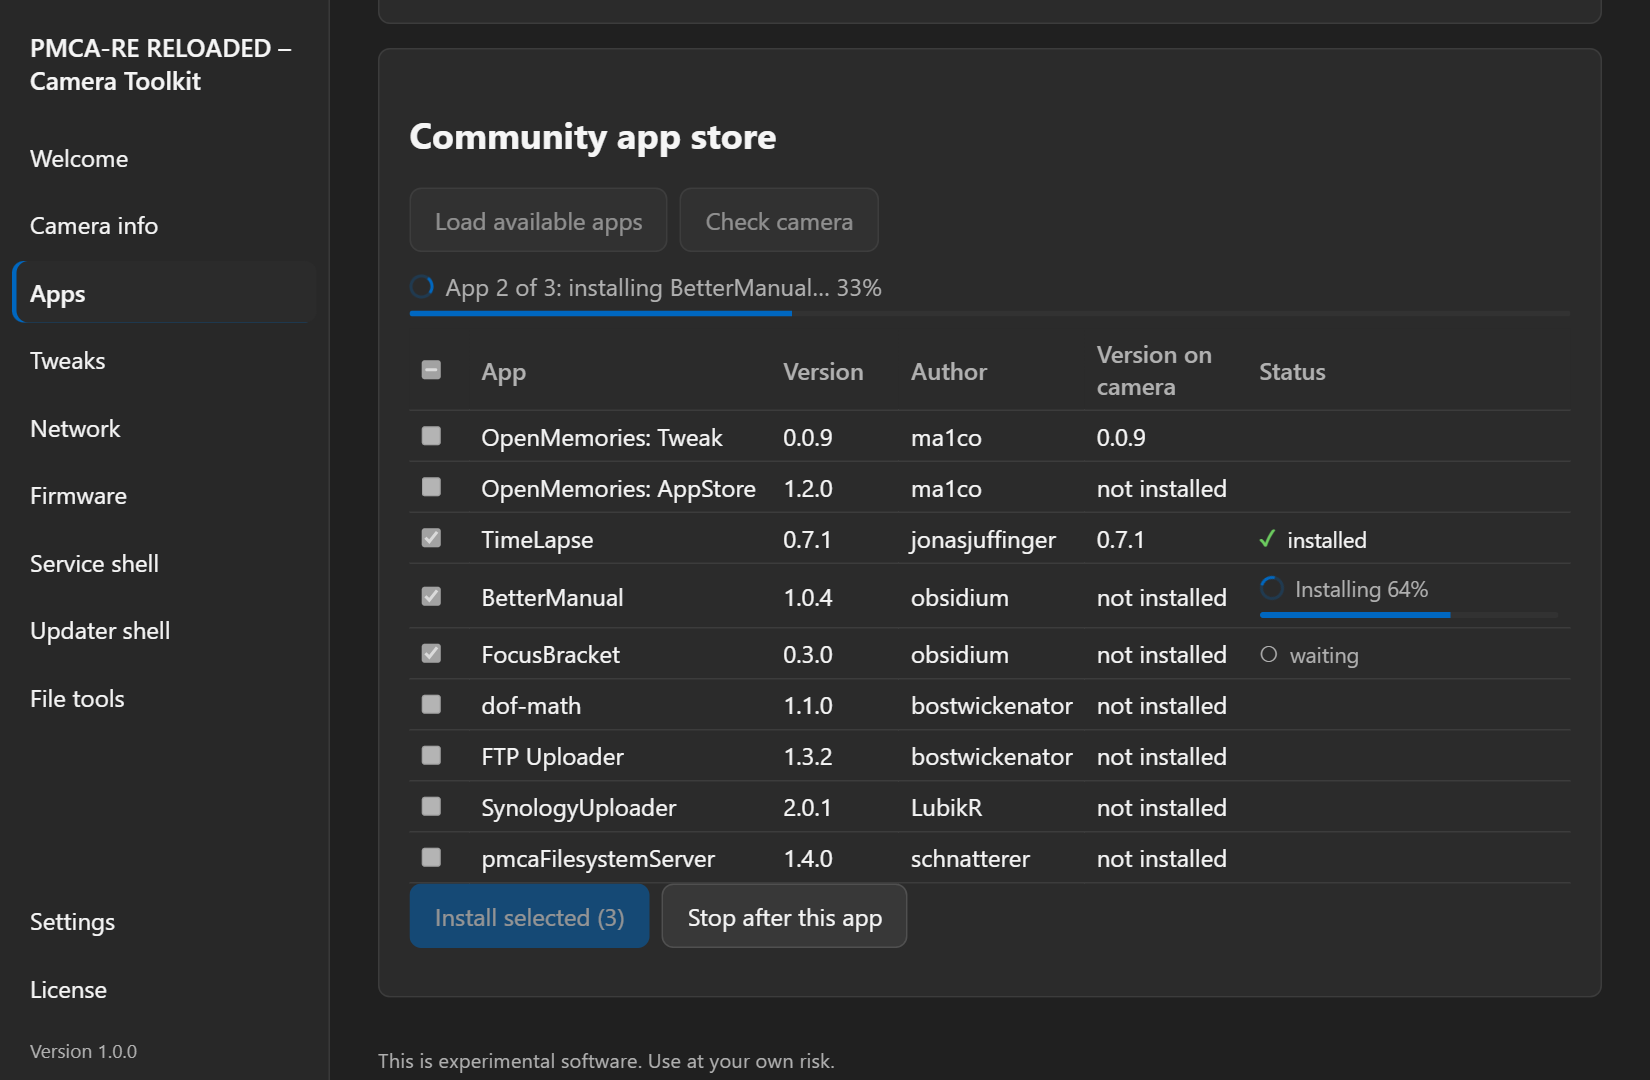
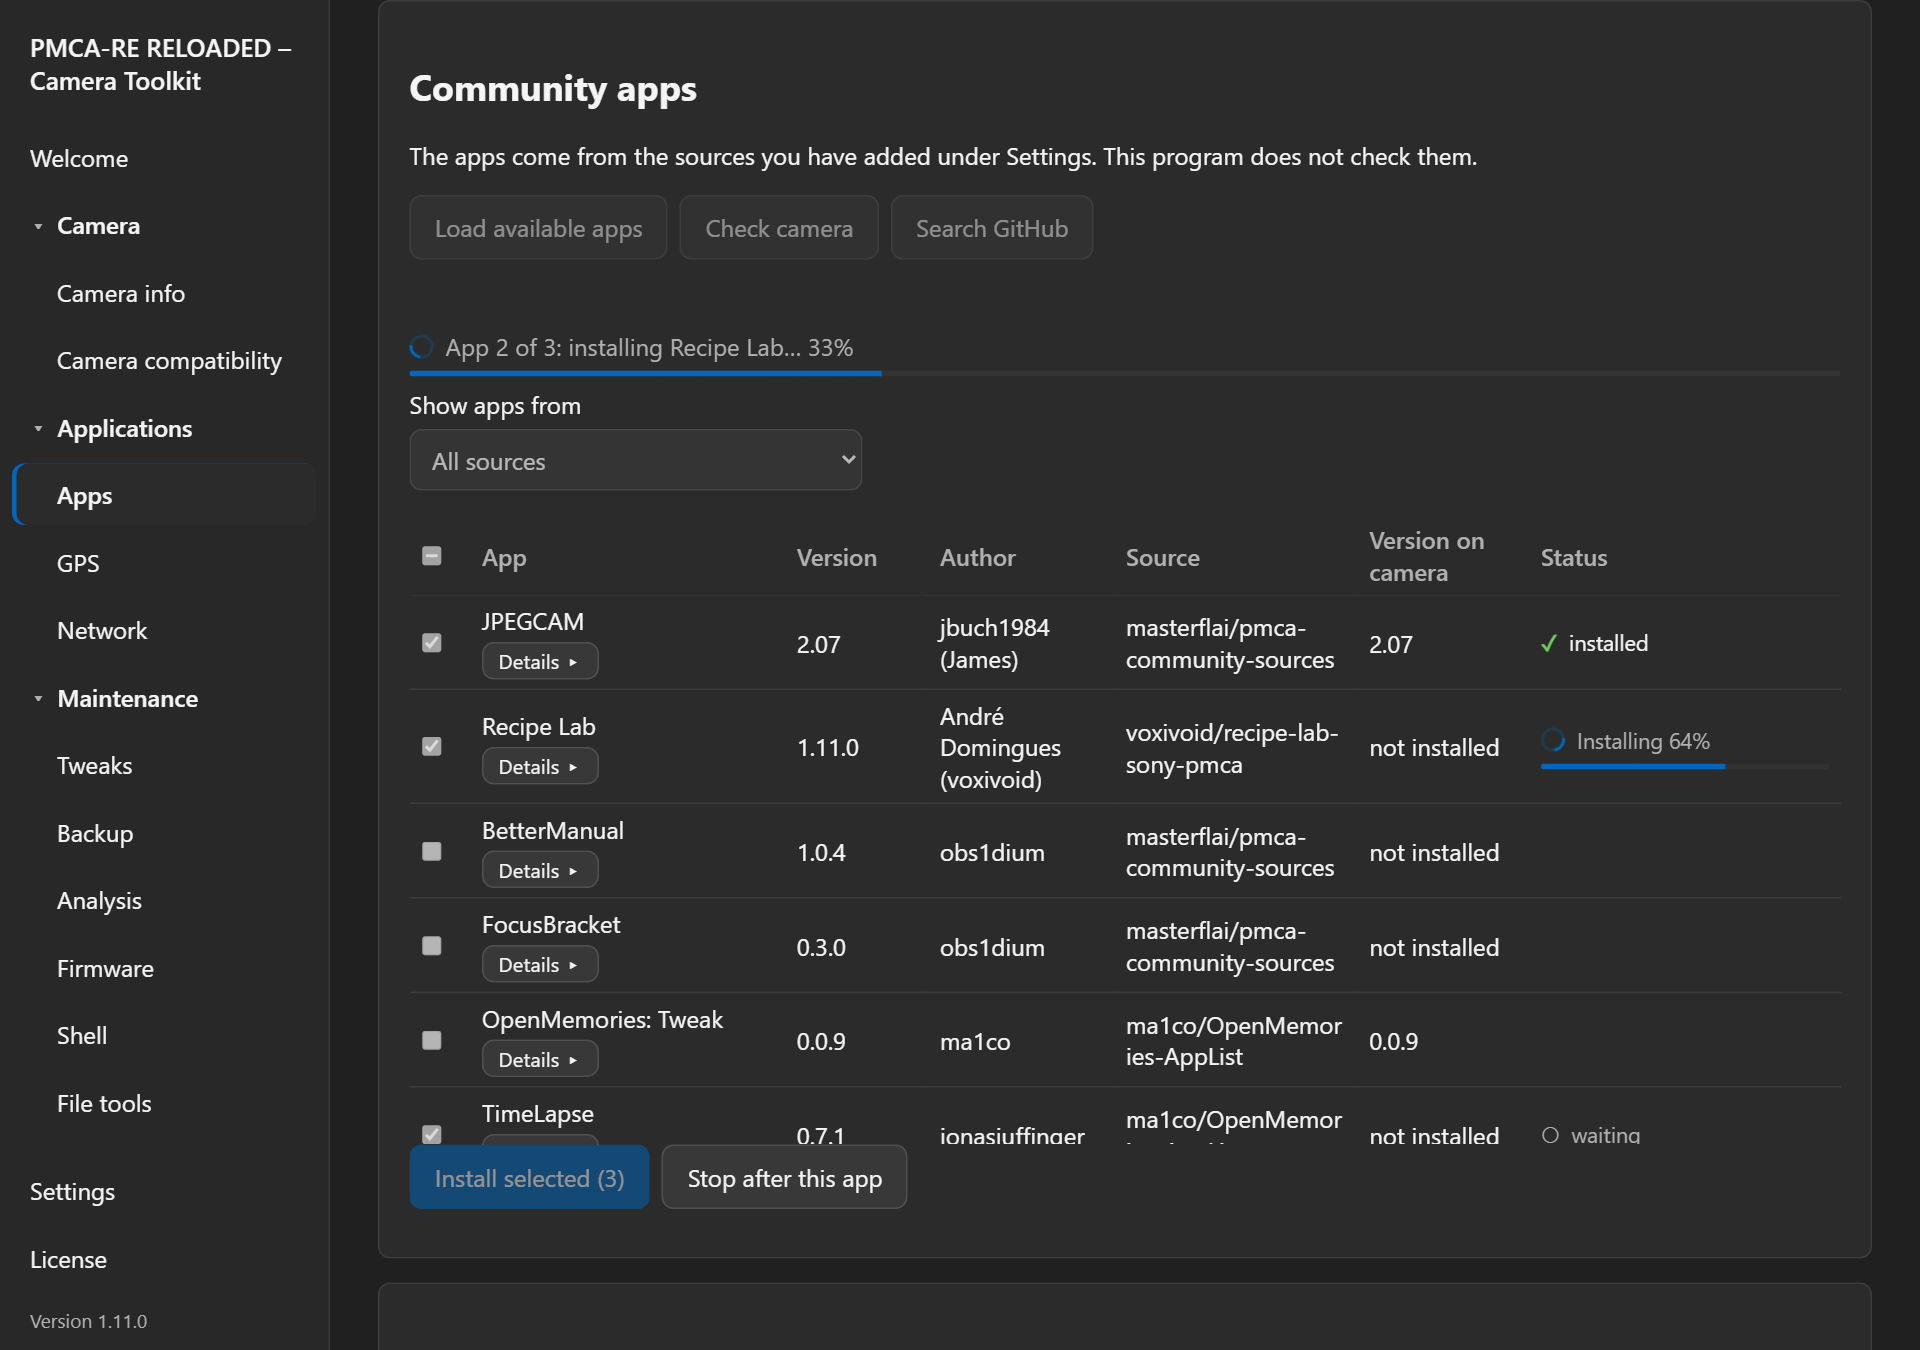
README and website: new screenshots and demo of the 1.10 window, incl. function analysis

diff --git a/docs/index.html b/docs/index.html
@@ -141,16 +141,16 @@ footer { border-top: 1px solid var(--border); padding: 28px 0 48px; color: var(-
     <figure style="margin:0">
       <picture>
         <source media="(prefers-color-scheme: dark)" srcset="images/camera-info-dark.png">
-        <img src="images/camera-info-light.png" width="1650" height="1080" alt="Camera info page showing model, product code, serial number, firmware version and lens of a connected Sony camera (example data)">
+        <img src="images/camera-info-light.png" width="1920" height="1350" alt="Camera info page showing model, product code, serial number, firmware version and lens of a connected Sony camera (example data)">
       </picture>
       <figcaption>Camera info: model, firmware, serial number, lens</figcaption>
     </figure>
     <figure style="margin:0">
       <picture>
         <source media="(prefers-color-scheme: dark)" srcset="images/app-install-dark.png">
-        <img src="images/app-install-light.png" width="1650" height="1080" alt="Apps page installing three selected camera apps from the community app list" loading="lazy">
+        <img src="images/app-install-light.png" width="1920" height="1350" alt="Apps page installing three selected camera apps from several app sources" loading="lazy">
       </picture>
-      <figcaption>Installing camera apps from the community list</figcaption>
+      <figcaption>Installing camera apps from the app sources</figcaption>
     </figure>
   </div>
 </header>

diff --git a/README.md b/README.md
@@ -29,12 +29,12 @@
 
 <p align="center">
   <picture>
-    <source media="(prefers-color-scheme: dark)" srcset="docs/images/camera-info-dark.png">
-    <img src="docs/images/camera-info-light.png" width="49%" alt="Camera info page showing model, product code, serial number, firmware version and lens of a connected camera (example data)">
+    <source media="(prefers-color-scheme: dark)" srcset="docs/images/app-install-dark.png">
+    <img src="docs/images/app-install-light.png" width="49%" alt="Apps page: apps from several sources in one list, three selected apps being installed one after another, the second at 64 percent">
   </picture>
   <picture>
-    <source media="(prefers-color-scheme: dark)" srcset="docs/images/app-install-dark.png">
-    <img src="docs/images/app-install-light.png" width="49%" alt="Apps page: the community apps list installing three selected apps one after another, the second at 64 percent">
+    <source media="(prefers-color-scheme: dark)" srcset="docs/images/analysis-dark.png">
+    <img src="docs/images/analysis-light.png" width="49%" alt="Function analysis: a finished run for the menu setting Auto Pwr OFF Temp. with one candidate value that matches the menu unambiguously">
   </picture>
 </p>
 
@@ -73,7 +73,7 @@ in Rust, and it needs neither Python nor extra driver tools.
 <p align="center">
   <picture>
     <source media="(prefers-color-scheme: dark)" srcset="docs/images/demo-dark.gif">
-    <img src="docs/images/demo-light.gif" width="720" alt="Short demo: reading the camera info, loading the community app list and installing three apps">
+    <img src="docs/images/demo-light.gif" width="720" alt="Short demo: reading the camera info, loading the app list from several sources, installing three apps and opening a finished function analysis">
   </picture>
 </p>
 

diff --git a/CHANGELOG.md b/CHANGELOG.md
@@ -13,6 +13,8 @@ All notable changes to this project are documented here. The format follows
   no longer works on macOS 15 and later), and the README explains how to tell
   a virus scanner's false positive from a real problem
   ([#5](https://github.com/masterflai/pmca-re-reloaded/issues/5)).
+- The README and website pictures show the reorganised window, including the
+  function analysis.
 
 ## [1.11.0-rc.1] - 2026-11-03
 
